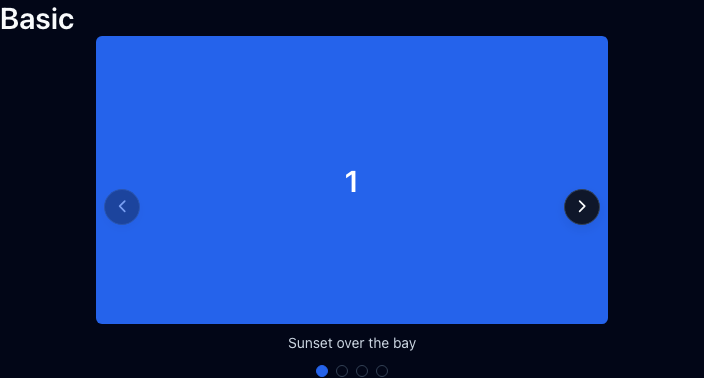
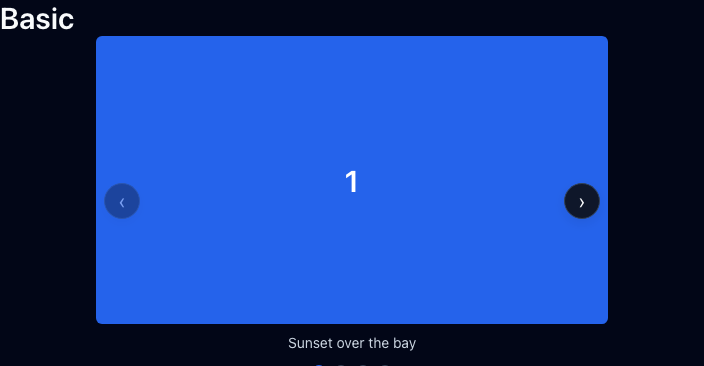
feat(core): carousel Rung B — zero-JS CSS-Carousel controls behind @user (3b)
Where the browser supports the CSS Carousel pseudo-elements (scroll-marker-group,
::scroll-marker, ::scroll-button() — Chrome 135+ today), .re-carousel now draws
its dot strip + prev/next buttons with NO JavaScript, styled to match the JS
controls. enhanceCarousel feature-tests the IDENTICAL condition and stands down,
so the two control sets never both appear.

- carousel.css: @user (scroll-marker-group: after) and selector(::scroll-marker)
  block — marker group as the dot strip, ::scroll-marker dots (+ :target-current
  active), ::scroll-button(inline-start/end) as overlaid prev/next with an alt
  string for the accessible name. lightningcss preserves the pseudos; stylelint
  accepts them. Forced-colors re-established for both.
- carousel.js: gate in wireOne — if CSS.supports(<same string>) return a no-op.

Tests: a new "exactly one of {CSS markers, JS dots}" assertion (keyed on the
shared feature test) runs everywhere; the Rung C JS-control tests skip on Chromium
(where the UA draws the controls) and are exercised on Firefox/WebKit. axe stays
clean on the Rung B render. Chromium visual baselines regenerated (Rung B); FF/
WebKit baselines unchanged (still Rung C).

Honest framing kept: Rung B is labeled experimental in the docs (UA markers are
ahead of AT — documented tab-exposure bugs), so Rung C remains the a11y-tested
path. Autoplay still deferred.

Stacked on #88 (3a). Co-Authored-By: Claude Opus 4.8 (1M context) <[email redacted]>

diff --git a/tests/elements/carousel.spec.ts b/tests/elements/carousel.spec.ts
@@ -1,44 +1,90 @@
 import { expect, test } from "@playwright/test";
 
+const CSS_CAROUSEL = "(scroll-marker-group: after) and selector(::scroll-marker)";
+
 test.describe("Carousel", () => {
   test.beforeEach(async ({ page }) => {
     await page.goto("./carousel.html");
   });
 
-  test("injects controls; the track is a focusable scroll region; prev starts disabled", async ({
+  // Rung A markup — true on every engine, with or without JS.
+  test("the track is a focusable scroll region", async ({ page }) => {
+    await expect(page.getByTestId("basic").locator(".re-carousel__track")).toHaveAttribute(
+      "tabindex",
+      "0",
+    );
+  });
+
+  // The two control rungs are mutually exclusive, keyed on the SAME feature test
+  // the CSS @supports and the behavior's gate both use.
+  test("exactly one control set renders — CSS markers (Rung B) or JS dots (Rung C), never both", async ({
     page,
   }) => {
     const host = page.getByTestId("basic").locator(".re-carousel");
-    await expect(host.locator(".re-carousel__dot")).toHaveCount(4);
-    await expect(host.locator(".re-carousel__track")).toHaveAttribute("tabindex", "0");
-    await expect(host.locator('[data-dir="prev"]')).toBeDisabled();
-    await expect(host.locator('[data-dir="next"]')).toBeEnabled();
-    await expect(host.locator(".re-carousel__dot").first()).toHaveAttribute("aria-current", "true");
+    const native = await page.evaluate((q) => CSS.supports(q), CSS_CAROUSEL);
+    const jsDots = await host.locator(".re-carousel__dot").count();
+    if (native) {
+      expect(jsDots).toBe(0); // the UA draws the markers/buttons; the behavior stood down
+      const smg = await host
+        .locator(".re-carousel__track")
+        .evaluate((el) => getComputedStyle(el).scrollMarkerGroup);
+      expect(smg.startsWith("after")).toBe(true);
+    } else {
+      expect(jsDots).toBe(4); // the behavior injected the dots
+    }
   });
 
-  test("next advances the active slide and enables prev", async ({ page }) => {
-    const host = page.getByTestId("basic").locator(".re-carousel");
-    await host.locator('[data-dir="next"]').click();
-    await expect(host.locator(".re-carousel__dot").nth(1)).toHaveAttribute("aria-current", "true");
-    await expect(host.locator('[data-dir="prev"]')).toBeEnabled();
-  });
+  // Rung C — the JS controls. Skipped where the browser draws them itself (Rung B,
+  // Chromium 135+); exercised on Firefox/WebKit, which is the a11y-tested path.
+  test.describe("JS controls (Rung C)", () => {
+    test.skip(
+      ({ browserName }) => browserName === "chromium",
+      "Chromium 135+ uses the CSS-Carousel pseudos (Rung B); Rung C is tested on Firefox/WebKit",
+    );
 
-  test("a dot jumps to its slide; next disables at the last slide (no wrap)", async ({ page }) => {
-    const host = page.getByTestId("basic").locator(".re-carousel");
-    await host.locator(".re-carousel__dot").nth(3).click();
-    await expect(host.locator(".re-carousel__dot").nth(3)).toHaveAttribute("aria-current", "true");
-    await expect(host.locator('[data-dir="next"]')).toBeDisabled();
-  });
+    test("injects prev/next + dots; prev starts disabled", async ({ page }) => {
+      const host = page.getByTestId("basic").locator(".re-carousel");
+      await expect(host.locator(".re-carousel__dot")).toHaveCount(4);
+      await expect(host.locator('[data-dir="prev"]')).toBeDisabled();
+      await expect(host.locator('[data-dir="next"]')).toBeEnabled();
+      await expect(host.locator(".re-carousel__dot").first()).toHaveAttribute(
+        "aria-current",
+        "true",
+      );
+    });
 
-  test("off-screen slides are inert (only the active slide is interactive)", async ({ page }) => {
-    const slides = page.getByTestId("basic").locator(".re-carousel__slide");
-    await expect(slides.nth(0)).toHaveJSProperty("inert", false);
-    await expect(slides.nth(1)).toHaveJSProperty("inert", true);
-  });
+    test("next advances the active slide and enables prev", async ({ page }) => {
+      const host = page.getByTestId("basic").locator(".re-carousel");
+      await host.locator('[data-dir="next"]').click();
+      await expect(host.locator(".re-carousel__dot").nth(1)).toHaveAttribute(
+        "aria-current",
+        "true",
+      );
+      await expect(host.locator('[data-dir="prev"]')).toBeEnabled();
+    });
 
-  test("the settled slide is announced by name + position", async ({ page }) => {
-    const host = page.getByTestId("basic").locator(".re-carousel");
-    await host.locator('[data-dir="next"]').click();
-    await expect(host.locator("[aria-live]")).toHaveText("Forest trail in autumn (2 of 4)");
+    test("a dot jumps to its slide; next disables at the last slide (no wrap)", async ({
+      page,
+    }) => {
+      const host = page.getByTestId("basic").locator(".re-carousel");
+      await host.locator(".re-carousel__dot").nth(3).click();
+      await expect(host.locator(".re-carousel__dot").nth(3)).toHaveAttribute(
+        "aria-current",
+        "true",
+      );
+      await expect(host.locator('[data-dir="next"]')).toBeDisabled();
+    });
+
+    test("off-screen slides are inert (only the active slide is interactive)", async ({ page }) => {
+      const slides = page.getByTestId("basic").locator(".re-carousel__slide");
+      await expect(slides.nth(0)).toHaveJSProperty("inert", false);
+      await expect(slides.nth(1)).toHaveJSProperty("inert", true);
+    });
+
+    test("the settled slide is announced by name + position", async ({ page }) => {
+      const host = page.getByTestId("basic").locator(".re-carousel");
+      await host.locator('[data-dir="next"]').click();
+      await expect(host.locator("[aria-live]")).toHaveText("Forest trail in autumn (2 of 4)");
+    });
   });
 });

diff --git a/packages/core/src/components/carousel.css b/packages/core/src/components/carousel.css
@@ -135,4 +135,83 @@
       border: var(--re-border-width-strong) solid ButtonText;
     }
   }
+
+  /* ---- Rung B: CSS Carousel pseudo-elements (experimental) -------------
+     Where the browser draws the scroll markers + buttons itself (the CSS
+     Carousel feature — Chrome 135+ today), no JavaScript is needed: the UA
+     generates a dot per slide and prev/next buttons, and wires them. enhance-
+     Carousel feature-tests the SAME condition and stands down, so the two
+     control sets never both appear. This rung is currently AHEAD of assistive
+     tech (documented marker/tab-exposure bugs), so it ships behind @supports as
+     a progressive nicety — Rung C (the JS controls) stays the a11y-tested path. */
+  @supports (scroll-marker-group: after) and selector(::scroll-marker) {
+    .re-carousel__track {
+      scroll-marker-group: after;
+    }
+    /* The generated dot strip, placed after the track. */
+    .re-carousel__track::scroll-marker-group {
+      display: flex;
+      justify-content: center;
+      gap: var(--re-space-2);
+      margin-block-start: var(--re-space-3);
+    }
+    .re-carousel__slide::scroll-marker {
+      content: "";
+      inline-size: var(--re-space-3);
+      block-size: var(--re-space-3);
+      border: var(--re-border-default);
+      border-radius: var(--re-radius-pill);
+      background-color: transparent;
+      cursor: pointer;
+    }
+    .re-carousel__slide::scroll-marker:target-current {
+      background-color: var(--re-color-accent-600);
+      border-color: var(--re-color-accent-600);
+    }
+    /* Generated prev/next buttons, overlaid on the track edges. The string
+       after `/` is the button's accessible name. */
+    .re-carousel__track::scroll-button(inline-start),
+    .re-carousel__track::scroll-button(inline-end) {
+      position: absolute;
+      inset-block: 0;
+      margin-block: auto;
+      inline-size: var(--re-control-height-md);
+      block-size: var(--re-control-height-md);
+      display: inline-flex;
+      align-items: center;
+      justify-content: center;
+      border: var(--re-border-default);
+      border-radius: var(--re-radius-pill);
+      background-color: var(--re-color-surface);
+      color: var(--re-color-text);
+      box-shadow: var(--re-shadow-md);
+      cursor: pointer;
+      font-size: var(--re-size-text-xl);
+      line-height: 1;
+    }
+    .re-carousel__track::scroll-button(inline-start) {
+      content: "\2039" / "Previous slide";
+      inset-inline-start: var(--re-space-2);
+    }
+    .re-carousel__track::scroll-button(inline-end) {
+      content: "\203A" / "Next slide";
+      inset-inline-end: var(--re-space-2);
+    }
+    .re-carousel__track::scroll-button(inline-start):disabled,
+    .re-carousel__track::scroll-button(inline-end):disabled {
+      opacity: 0.4;
+      cursor: not-allowed;
+    }
+
+    @media (forced-colors: active) {
+      .re-carousel__slide::scroll-marker:target-current {
+        background-color: Highlight;
+        border-color: Highlight;
+      }
+      .re-carousel__track::scroll-button(inline-start),
+      .re-carousel__track::scroll-button(inline-end) {
+        border: var(--re-border-width-strong) solid ButtonText;
+      }
+    }
+  }
 }

diff --git a/tests/visual/carousel.visual.spec.ts b/tests/visual/carousel.visual.spec.ts
@@ -1,15 +1,28 @@
 import { expect, test } from "@playwright/test";
 
+const CSS_CAROUSEL = "(scroll-marker-group: after) and selector(::scroll-marker)";
+
+// The carousel renders its controls two ways: the UA-generated CSS-Carousel
+// markers/buttons where supported (Rung B, e.g. Chromium 135+), and JS-injected
+// controls everywhere else (Rung C). Each engine baselines its own render.
+async function ready(page: import("@playwright/test").Page) {
+  const native = await page.evaluate((q) => CSS.supports(q), CSS_CAROUSEL);
+  if (!native) {
+    // Rung C: wait for the behavior to inject the dots + set the initial active.
+    await expect(page.getByTestId("basic").locator(".re-carousel__dot").first()).toHaveAttribute(
+      "aria-current",
+      "true",
+    );
+  }
+  // Rung B is synchronous CSS — toHaveScreenshot's own stability retry covers it.
+}
+
 test.use({ colorScheme: "light", viewport: { width: 1024, height: 800 } });
 
 test("carousel basic visual snapshot", async ({ page }) => {
   await page.goto("./carousel.html");
   await page.emulateMedia({ reducedMotion: "reduce" });
-  // Wait for the behavior to inject controls + set the initial active dot.
-  await expect(page.getByTestId("basic").locator(".re-carousel__dot").first()).toHaveAttribute(
-    "aria-current",
-    "true",
-  );
+  await ready(page);
   await expect(page.getByTestId("basic")).toHaveScreenshot("carousel-basic.png", {
     maxDiffPixelRatio: 0.01,
   });
@@ -20,10 +33,7 @@ test.describe("carousel visual — dark", () => {
   test("carousel in dark", async ({ page }) => {
     await page.goto("./carousel.html");
     await page.emulateMedia({ reducedMotion: "reduce" });
-    await expect(page.getByTestId("basic").locator(".re-carousel__dot").first()).toHaveAttribute(
-      "aria-current",
-      "true",
-    );
+    await ready(page);
     await expect(page.getByTestId("basic")).toHaveScreenshot("carousel-basic-dark.png", {
       maxDiffPixelRatio: 0.01,
     });

diff --git a/packages/core/src/behaviors/carousel.js b/packages/core/src/behaviors/carousel.js
@@ -83,8 +83,19 @@ export function enhanceCarousel(root = document) {
  * @param {HTMLElement} host
  * @returns {() => void}
  */
+/** True where the browser draws the CSS-Carousel markers/buttons itself (Rung B). */
+function nativeControls() {
+  return (
+    typeof CSS !== "undefined" &&
+    CSS.supports("(scroll-marker-group: after) and selector(::scroll-marker)")
+  );
+}
+
 function wireOne(host) {
   if (host.hasAttribute("data-re-carousel-ready")) return () => {}; // idempotent
+  // Rung B: where the UA generates the scroll markers + buttons, stand down so the
+  // two control sets never both appear. The CSS @supports uses the SAME test.
+  if (nativeControls()) return () => {};
   const track = /** @type {HTMLElement | null} */ (host.querySelector(".re-carousel__track"));
   if (!track) return () => {};
   const slides = /** @type {HTMLElement[]} */ (

diff --git a/.changeset/carousel-rung-b.md b/.changeset/carousel-rung-b.md
@@ -1,0 +1,7 @@
+---
+"@relements/core": minor
+---
+
+Carousel: add the zero-JS **CSS-Carousel** control rung (Rung B). Where the browser supports the CSS Carousel pseudo-elements (`scroll-marker-group`, `::scroll-marker`, `::scroll-button()` — Chrome 135+ today), `.re-carousel` now draws its dot strip and prev/next buttons with no JavaScript, styled to match the JS controls. `enhanceCarousel` feature-tests the same condition and stands down, so the two control sets never both appear (and a test asserts exactly one renders).
+
+Shipped behind `@supports` and labeled **experimental**: the UA-generated markers/buttons are ahead of assistive tech (documented tab-exposure bugs), so the JS controls (Rung C) remain the accessibility-tested path on engines without the feature. Autoplay is still deferred to a later release.